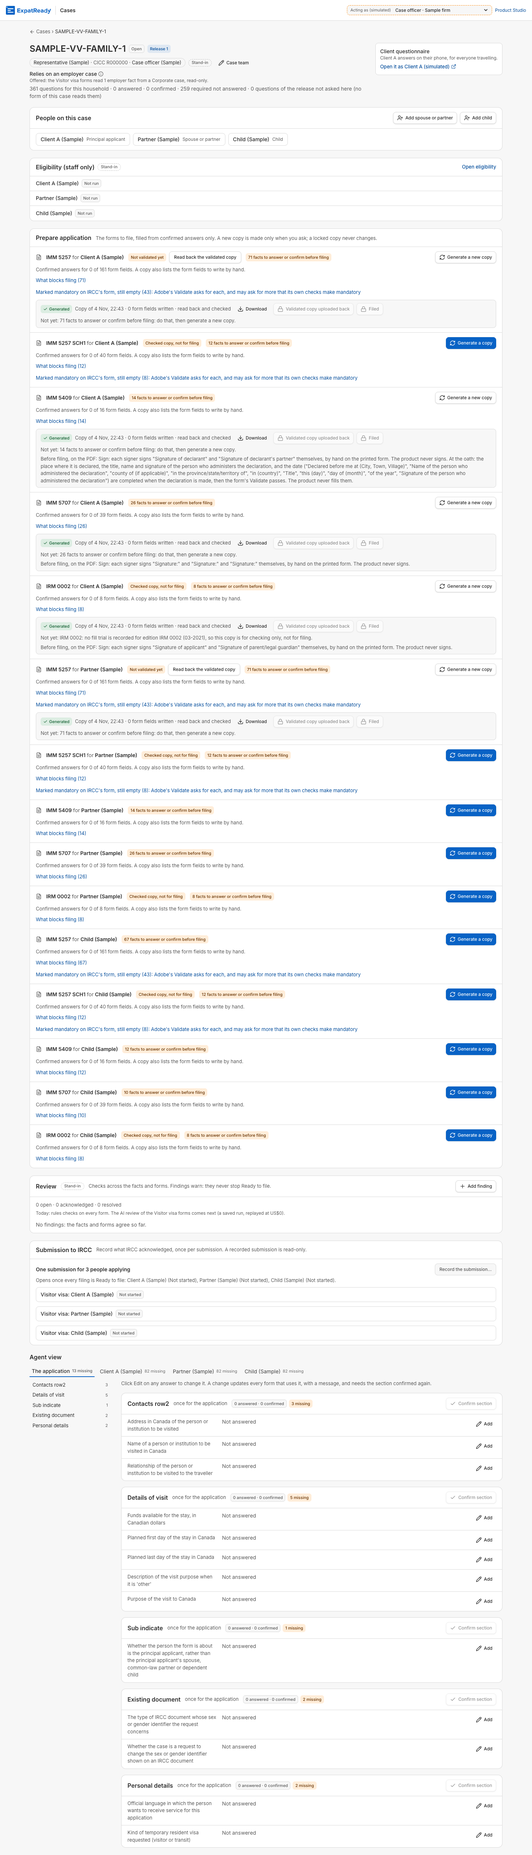
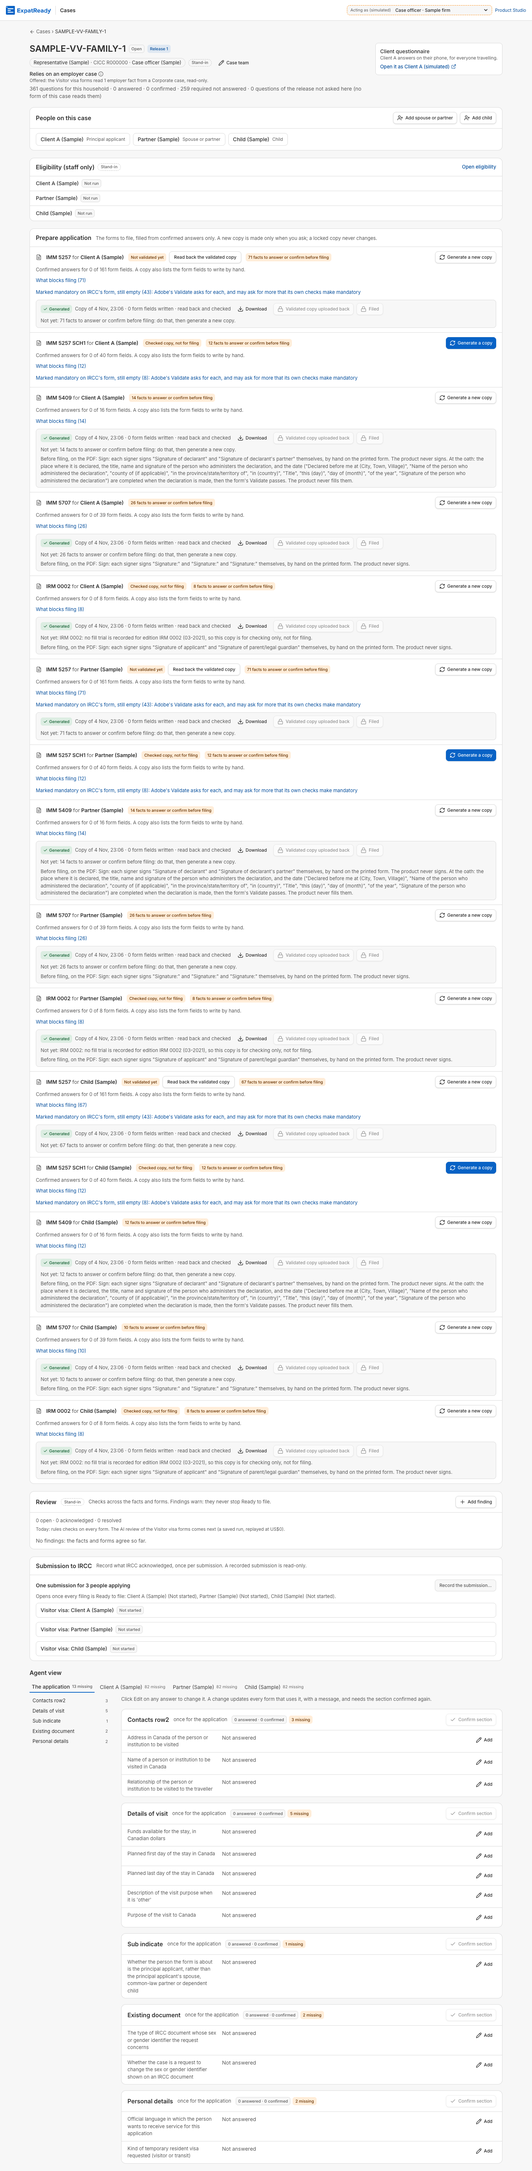
runtime: QA-231 review round 1 — the Sample case's copies one at a time (M1); checks and online boxes place no question (m1); a form rule named by its condition (m2); a removed caption-less field in words (m3); a form-rule fail test that can fail (m4)

diff --git a/ai-workers/problem-1-pathway-setup-and-form-filling/prototype/studio/tests/check_c91_impact_ai.ts b/ai-workers/problem-1-pathway-setup-and-form-filling/prototype/studio/tests/check_c91_impact_ai.ts
@@ -54,19 +54,28 @@ for (const [sig, code] of [["SIGINT", 130], ["SIGTERM", 143]] as const) process.
   // is asked there (engine/snapshot.ts placements), so it is touched; a section neither chosen nor needed is not.
   const r2 = rowsOf({
     boxes: [{ canonicalFieldKey: "rep.name", edition: { id: "e1", govFormDefId: "F", channel: "PDF", editionLabel: "IMM 5476 (11-2021)" } }],
-    lines: [v({ combinationId: "VV", lineageKey: "IMM 5476", govFormDefId: "F", predicateJson: { op: "exists", field: "case.rep_action", subjectKind: "CASE" } })] as never,
-    questions: [v({ lineageKey: "q1", sectionKey: "personal", canonicalFieldKey: "rep.name", predicateJson: null }), v({ lineageKey: "q2", sectionKey: "appoint", canonicalFieldKey: "case.rep_action", predicateJson: null }), v({ lineageKey: "q3", sectionKey: "idle", canonicalFieldKey: "z.idle", predicateJson: cond("rep.name") })] as never,
+    lines: [v({ combinationId: "VV", lineageKey: "IMM 5476", govFormDefId: "F", predicateJson: { op: "exists", field: "case.rep_action", subjectKind: "CASE" } }),
+      v({ combinationId: "SP", lineageKey: "IMM 1294", govFormDefId: "G", predicateJson: { op: "exists", field: "case.other", subjectKind: "CASE" } })] as never,
+    checks: [v({ combinationId: "VV", checkKey: "only_check", predicateJson: cond("z.checked") })] as never,
+    questions: [v({ lineageKey: "q1", sectionKey: "personal", canonicalFieldKey: "rep.name", predicateJson: null }), v({ lineageKey: "q2", sectionKey: "appoint", canonicalFieldKey: "case.rep_action", predicateJson: null }), v({ lineageKey: "q3", sectionKey: "idle", canonicalFieldKey: "z.idle", predicateJson: cond("rep.name") }), v({ lineageKey: "q4", sectionKey: "checked", canonicalFieldKey: "z.checked", predicateJson: null })] as never,
   });
   const u2 = fieldComponents(r2, ["rep.name", "case.rep_action"], new Set(["VV"]));
   const has2 = (kind: string, key: string, field: string) => u2.some((u) => u.kind === kind && u.key === key && u.field === field && u.combinationId === "VV");
   ok("C9.1 P-32 pass (QA-231): a form's own rule that reads the field is a rule; a section not chosen but asked because a form or a form rule needs its fact is touched", has2("rule", formRuleKey("IMM 5476"), "case.rep_action") && has2("section", "personal", "rep.name") && has2("section", "appoint", "case.rep_action"), u2);
   ok("C9.1 P-32 fail (QA-231): a section neither chosen nor needed by a form (its question only reads the field in a condition) is not touched, and nothing on a combination that does not file the form", !u2.some((u) => u.key === "idle") && fieldComponents(r2, ["rep.name"], new Set(["SP"])).length === 0, u2.map((u) => u.key));
+  // Review m4: SP files another form whose own rule reads another field: no rule of SP is listed for these fields; m1: a
+  // fact only a check reads places no question, so its section is not touched.
+  const u3 = fieldComponents(r2, ["rep.name", "case.rep_action", "z.checked"], new Set(["VV", "SP"]));
+  ok("C9.1 P-32 fail (review m4, m1): a form rule that reads another field (SP's IMM 1294) is not listed, and a section whose fact only a check reads is not touched", !u3.some((u) => u.combinationId === "SP") && !u3.some((u) => u.kind === "section" && u.key === "checked") && u3.some((u) => u.kind === "rule" && u.key === formRuleKey("IMM 5476")), u3.map((u) => `${u.kind}:${u.key}:${u.combinationId}`));
   const rew = rows.find((x) => x.change === "reworded")!;
   const view = componentsView([{ ...uses.find((u) => u.kind === "rule")!, label: "Has a representative" }], [{ ...rew, field: "rep.name" }], new Map([["rep.name", "Representative's name"]]), new Map([["VV", "Visitor visa"]]), "11-2025");
   ok("C9.1 P-32 pass: each component says why in words (which box changed, its old and new caption, the field) and in which combination", view.rules.length === 1 && view.rules[0].combination === "Visitor visa" && view.rules[0].why.includes("reworded in 11-2025") && view.rules[0].why.includes("Representative's name") && view.rules[0].why.length > 10, view.rules[0]);
   const bare = { ...rew, field: "rep.name", caption: rew.dataPath };
   const w = componentsView([{ ...uses.find((u) => u.kind === "rule")!, label: "Has a representative" }], [bare], new Map([["rep.name", "Representative's name"]]), new Map([["VV", "Visitor visa"]]), "11-2025").rules[0]?.why ?? "";
   ok("C9.1 P-32 (QA-231): a reworded form field with no caption of its own is said so in words, never by its PDF path", w.includes("with no caption of its own") && !w.includes(rew.dataPath), w);
+  const gone = { ...rew, change: "removed" as const, field: "rep.name", caption: rew.dataPath };
+  const w2 = componentsView([{ ...uses.find((u) => u.kind === "rule")!, label: "Has a representative" }], [gone], new Map([["rep.name", "Representative's name"]]), new Map([["VV", "Visitor visa"]]), "11-2025").rules[0]?.why ?? "";
+  ok("C9.1 P-32 (review m3): a removed form field with no caption of its own is said so in words, never by its PDF path", w2.includes("The form field with no caption of its own (removed in 11-2025) fills") && !w2.includes(rew.dataPath), w2);
   ok("C9.1 P-32 fail: a use whose field no removed or reworded box fills is left out (nothing to explain)", componentsView([{ ...uses.find((u) => u.kind === "rule")!, label: "x" }], [{ ...rew, field: "other.field" }], new Map(), new Map(), "11-2025").rules.length === 0);
 
   // ── P-121: the part holds the changed boxes only and the guard admits it; a tampered part is refused ──

diff --git a/ai-workers/problem-1-pathway-setup-and-form-filling/prototype/studio/api/src/sample-case.ts b/ai-workers/problem-1-pathway-setup-and-form-filling/prototype/studio/api/src/sample-case.ts
@@ -2,7 +2,7 @@
 // through the case officer's own steps (Runtime.createCase, addPerson, CaseForms.generate), as a person opens one on
 // Cases. A new edition held later (row 17) then shows open cases staying on the release they started on. The people are
 // made up (Client A's family of expected/p5-case-c1.json, Sample); nobody answers anything, nothing is filed, no AI (US$0).
-import { RUNTIME_ACTORS } from "./core.ts";
+import { RUNTIME_ACTORS, type Db } from "./core.ts";
 import type { CaseForms } from "./fill-case.ts";
 import type { Runtime } from "./runtime.ts";
 
@@ -11,9 +11,13 @@ export const SAMPLE_CASE = { reference: "SAMPLE-VV-FAMILY-1", principal: "Client
 
 export type SampleCase = { caseId: string | null; release: number | null; people: number; copies: string[]; refused: string[] };
 
+/** How long one copy may take before the next is asked for (a fill takes about a second). */
+const COPY_WAIT_MS = 60_000;
+
 /** Opens the case, adds the family, and asks for a copy of every form the release files for each person (each copy is
- *  filled from the case's answers, none yet). Each refusal is kept in words; nothing is forced. */
-export async function openSampleFamilyCase(runtime: Runtime, forms: CaseForms, combinationId: string): Promise<SampleCase> {
+ *  filled from the case's answers, none yet), one at a time: a case holds at most 5 copies waiting or running (review M1),
+ *  so the next is asked for only when the last has finished. Each refusal is kept in words; nothing is forced. */
+export async function openSampleFamilyCase(db: Db, runtime: Runtime, forms: CaseForms, combinationId: string): Promise<SampleCase> {
   const officer = RUNTIME_ACTORS.find((a) => a.id === "user-O")!;
   const out: SampleCase = { caseId: null, release: null, people: 0, copies: [], refused: [] };
   const said = (e: unknown) => String((e as { response?: { detail?: string; message?: string } }).response?.detail ?? (e as { response?: { message?: string } }).response?.message ?? (e as Error).message).slice(0, 200);
@@ -25,8 +29,14 @@ export async function openSampleFamilyCase(runtime: Runtime, forms: CaseForms, c
     try { await runtime.addPerson(officer, opened.id, { ...p, idempotencyKey: `sample-vv-family-1-${p.role}` }); out.people++; } catch (e) { out.refused.push(`${p.displayName}: ${said(e)}`); }
   }
   for (const f of (await forms.list(officer, opened.id)).forms.filter((x) => x.applies && x.for_filing)) {
-    try { await forms.generate(officer, opened.id, f.form, f.subject_id, { idempotencyKey: `sample-vv-family-1-${f.form}-${f.subject_id}`.replace(/[^A-Za-z0-9-]/g, "-").slice(0, 80) }); out.copies.push(`${f.form} (${f.person})`); }
-    catch (e) { out.refused.push(`${f.form} for ${f.person}: ${said(e)}`); }
+    let copy: { id: string };
+    try { copy = await forms.generate(officer, opened.id, f.form, f.subject_id, { idempotencyKey: `sample-vv-family-1-${f.form}-${f.subject_id}`.replace(/[^A-Za-z0-9-]/g, "-").slice(0, 80) }); }
+    catch (e) { out.refused.push(`${f.form} for ${f.person}: ${said(e)}`); continue; }
+    const until = Date.now() + COPY_WAIT_MS;
+    let status = "QUEUED";
+    while (Date.now() < until && (status === "QUEUED" || status === "RUNNING")) { await new Promise((r) => setTimeout(r, 150)); status = (await db.formInstance.findUnique({ where: { id: copy.id }, select: { status: true } }))?.status ?? "FAILED"; }
+    if (status === "GENERATED") out.copies.push(`${f.form} (${f.person})`);
+    else out.refused.push(`${f.form} for ${f.person}: the copy ${status === "FAILED" ? "failed" : "did not finish within a minute"}.`);
   }
   return out;
 }

diff --git a/ai-workers/problem-1-pathway-setup-and-form-filling/prototype/studio/api/src/where-used.ts b/ai-workers/problem-1-pathway-setup-and-form-filling/prototype/studio/api/src/where-used.ts
@@ -4,7 +4,8 @@
 // impact preview. Other screens still read some uses themselves (lists of rules and checks, the reuse marks); they move
 // here when they change. New features call it and never copy it (P-258).
 import type { Prisma } from "@prisma/client";
-import { byItem, current, fieldComponents, fieldUses, filingCombinations, formLineByCombination, formRuleKey, releaseUses } from "../../engine/where-used.ts";
+import { conditionWords } from "../../engine/eligibility-gates.ts";
+import { byItem, current, fieldComponents, fieldsOf, fieldUses, filingCombinations, formLineByCombination, formRuleKey, releaseUses } from "../../engine/where-used.ts";
 import type { Db } from "./core.ts";
 import { fullTrail, trailWords } from "../../engine/structure.ts";
 
@@ -114,8 +115,11 @@ export async function fieldComponentsOf(db: Client, workspaceId: string, fields:
   const rows = await fieldUseRows(db, workspaceId);
   const uses = fieldComponents(rows, fields, new Set(combinationIds));
   const keys = (k: string) => [...new Set(uses.filter((u) => u.kind === k).map((u) => u.key))];
-  const [sections, types] = await Promise.all([
+  // A form's own rule is named by its condition in words, each shared field by its label (review m2).
+  const lines = current(rows.lines, (l) => `${l.combinationId}|${l.lineageKey}`).filter((l) => uses.some((u) => u.kind === "rule" && u.key === formRuleKey(l.lineageKey) && u.combinationId === l.combinationId));
+  const [sections, ruleFields, types] = await Promise.all([
     db.logicalSection.findMany({ where: { workspaceId, sectionKey: { in: keys("section") } }, orderBy: { version: "desc" }, distinct: ["sectionKey"], select: { sectionKey: true, title: true } }),
+    db.canonicalField.findMany({ where: { workspaceId, canonicalFieldKey: { in: [...new Set(lines.flatMap((l) => fieldsOf(l.predicateJson)))] } }, orderBy: { version: "desc" }, distinct: ["canonicalFieldKey"], select: { canonicalFieldKey: true, label: true } }),
     db.documentType.findMany({ where: { workspaceId, documentTypeKey: { in: keys("document_type") } }, orderBy: { version: "desc" }, distinct: ["documentTypeKey"], select: { documentTypeKey: true, name: true } }),
   ]);
   const names = new Map<string, string>([
@@ -123,7 +127,7 @@ export async function fieldComponentsOf(db: Client, workspaceId: string, fields:
     ...types.map((t) => [`document_type|${t.documentTypeKey}`, t.name] as [string, string]),
     ...current(rows.rules, (x) => `${x.combinationId}|${x.predicateKey}`).map((x) => [`rule|${x.predicateKey}|${x.combinationId}`, x.thenPlain] as [string, string]),
     ...current(rows.checks, (k) => `${k.combinationId}|${k.checkKey}`).map((k) => [`check|${k.checkKey}|${k.combinationId}`, k.message ?? k.checkKey] as [string, string]),
-    ...current(rows.lines, (l) => `${l.combinationId}|${l.lineageKey}`).map((l) => [`rule|${formRuleKey(l.lineageKey)}|${l.combinationId}`, `${l.lineageKey} is filed only when ${l.conditionPlain?.trim() || "its condition holds"}`] as [string, string]),
+    ...lines.map((l) => [`rule|${formRuleKey(l.lineageKey)}|${l.combinationId}`, `${l.lineageKey} is filed only when ${l.conditionPlain?.trim() || ruleFields.reduce((w, f) => w.split(f.canonicalFieldKey).join(f.label ?? f.canonicalFieldKey), conditionWords(l.predicateJson)) || "its condition holds"}`] as [string, string]),
   ]);
   return uses.map((u) => ({ ...u, label: names.get(`${u.kind}|${u.key}`) ?? names.get(`${u.kind}|${u.key}|${u.combinationId}`) ?? u.key }));
 }

diff --git a/ai-workers/problem-1-pathway-setup-and-form-filling/prototype/studio/tests/check_c10_1_configured.ts b/ai-workers/problem-1-pathway-setup-and-form-filling/prototype/studio/tests/check_c10_1_configured.ts
@@ -113,6 +113,12 @@ type Row = { row: string; title: string; status: string; shows: string; why: str
   const famRel = fam ? sql(`select string_agg(distinct r.version::text, ',') from form_instance i join config_release r on r.id = i.config_release_id where i.case_id = '${fam}'`) : "";
   ok("C10.1 row 11 (QA-231): a Sample family case (3 people, every name Sample) on the Visitor visa's release 1, with form copies on that release; partial, saying nobody has answered", n(`select count(*) from runtime_case`) === 1 && fam !== "" && n(`select count(*) from case_participant p join answer_subject s on s.id = p.subject_id where p.case_id = '${fam}' and p.role <> 'case' and s.label ~ 'Sample'`) === 3
     && n(`select count(*) from form_instance where case_id = '${fam}'`) > 0 && famRel === "1" && r("11").status === "partial" && /Nobody has answered yet/.test(r("11").why ?? "") && /SAMPLE-VV-FAMILY-1/.test(r("11").shows), { status: r("11").status, shows: r("11").shows, why: r("11").why?.slice(0, 200), famRel });
+  // Review M1: copies are asked for one at a time, so none is refused for "being generated" and every copy the row names
+  // is made on release 1 (the row's count is the database's).
+  const made = fam ? n(`select count(*) from form_instance where case_id = '${fam}' and status = 'GENERATED'`) : 0;
+  const named = Number(/: (\d+) form cop/.exec(r("11").shows)?.[1] ?? -1);
+  ok("C10.1 row 11 (review M1): the copies are made one at a time: each the row names is GENERATED, none waits or runs, at least one per person", made === named && made >= 3 && fam !== "" && n(`select count(*) from form_instance where case_id = '${fam}' and status in ('QUEUED', 'RUNNING', 'FAILED')`) === 0 && n(`select count(distinct subject_id) from form_instance where case_id = '${fam}'`) === 3, { made, named });
+  ok("C10.1 row 11 fail (review M1): no copy is refused for the case's limit of copies at once (\"being generated\")", !/being generated|did not finish|failed/.test(r("11").why ?? ""), r("11").why?.slice(0, 300));
   ok("C10.1 row 11 fail (QA-231): no answer is given for the Sample family by the loader (answers are the people's own, C10.1 part B)", fam !== "" && n(`select count(*) from client_canonical_answer a join case_participant p on p.subject_id = a.subject_id where p.case_id = '${fam}'`) === 0);
   ok("C10.1 (R-143): no live AI call, US$0, the spend ledger unchanged", ledger() === before && n(`select count(*) from drafting_job where mode = 'LIVE'`) === 0 && n(`select count(*) from ai_batch where mode = 'LIVE'`) === 0 && l.body.cost_usd === 0);
   ok("C10.1: the load reports its time step by step", ["form intake (read code, edition, checksum)", "form read (form fields)", "field-map review and apply", "review and release"].every((k) => typeof l.body.timings[k] === "number"), l.body.timings);

diff --git a/ai-workers/problem-1-pathway-setup-and-form-filling/prototype/studio/api/src/demo.ts b/ai-workers/problem-1-pathway-setup-and-form-filling/prototype/studio/api/src/demo.ts
@@ -692,10 +692,10 @@ export class Demo {
       why: visitor ? "Set on the Visitor visa's Forms tab for release 2." : "Waits for the Visitor visa's release 1: its channels change for release 2." });
     // Row 11 (QA-231, P-67): a Sample family case opens on the Visitor visa's release 1 through the case officer's own
     // steps, before row 17 holds the new edition, so the case is seen staying on its release (api/src/sample-case.ts).
-    const fam = visitor && vvId ? await timed("sample family case (row 11)", () => openSampleFamilyCase(this.runtime, this.caseForms, vvId)) : null;
+    const fam = visitor && vvId ? await timed("sample family case (row 11)", () => openSampleFamilyCase(this.db, this.runtime, this.caseForms, vvId)) : null;
     // Partial, never done: DEMO.md row 11 also wants each person answering once (the family of four, C10.1 part B).
     row({ row: "11", title: "A family case on release 1", status: !fam ? "waiting" : "partial",
-      shows: fam?.caseId ? `Case ${SAMPLE_CASE.reference} (Sample, ${fam.people} people) on release ${fam.release}: ${fam.copies.length} form cop${fam.copies.length === 1 ? "y" : "ies"} asked for (${fam.copies.join(", ")})` : "The case area is built (Demo › Open the case area)",
+      shows: fam?.caseId ? `Case ${SAMPLE_CASE.reference} (Sample, ${fam.people} people) on release ${fam.release}: ${fam.copies.length} form cop${fam.copies.length === 1 ? "y" : "ies"} made (${fam.copies.join(", ")})` : "The case area is built (Demo › Open the case area)",
       why: !fam ? "Waits for the Visitor visa's release 1 (a case runs on a release)." : [...fam.refused, "Nobody has answered yet: each person answers once on the case (C10.1 part B, a family of four)."].join(" · ") });
     row({ row: "12", title: "IMM 5257 filled as a PDF and read back equal", status: "waiting", shows: "The fill is built (C7.1)", why: "IMM 5257 has no saved field-map answer under today's 5-part drafting: it waits for the founder's paid run (Lead, 30 Oct)." });
     // Row 17 (QA-207): the current IMM 5476 arrives through the intake on no combination, as a person sends a new edition:

diff --git a/ai-workers/problem-1-pathway-setup-and-form-filling/prototype/studio/engine/where-used.ts b/ai-workers/problem-1-pathway-setup-and-form-filling/prototype/studio/engine/where-used.ts
@@ -103,10 +103,11 @@ export function fieldComponents(r: ComponentRows, fields: string[], combinations
   const add = (u: ComponentUse) => { if (combinations.has(u.combinationId)) out.set(`${u.kind}|${u.key}|${u.field}|${u.combinationId}`, out.get(`${u.kind}|${u.key}|${u.field}|${u.combinationId}`) ?? u); };
   const want = new Set(fields);
   const picksOf = new Map<string, string[]>(); for (const p of r.picks) picksOf.set(p.sectionKey, [...(picksOf.get(p.sectionKey) ?? []), p.combinationId]);
-  // QA-231: a combination asks a question when it chooses the question's section, or when its forms, form rules, rules,
-  // checklist lines or checks read the question's fact: the snapshot then asks it after the chosen sections
-  // (engine/snapshot.ts placements). Both count: the section is touched where the question is asked.
-  const read = new Set(fieldUses({ ...r, questions: [], picks: [] }).map(([f, c]) => `${f}|${c}`));
+  // QA-231: a combination asks a question when it chooses the question's section, or when its forms (a PDF edition's
+  // form fields), form rules, rules or checklist lines read the question's fact: the snapshot then asks it after the
+  // chosen sections (engine/snapshot.ts placements; a check never places a question, review m1). Both count: the
+  // section is touched where the question is asked.
+  const read = new Set(fieldUses({ ...r, boxes: r.boxes.filter((b) => b.edition.channel !== "ONLINE"), checks: [], questions: [], picks: [] }).map(([f, c]) => `${f}|${c}`));
   for (const q of current(r.questions, (q) => q.lineageKey)) {
     const reads = new Set([...(want.has(q.canonicalFieldKey) ? [q.canonicalFieldKey] : []), ...fieldsOf(q.predicateJson).filter((f) => want.has(f))]);
     const asking = new Set([...(picksOf.get(q.sectionKey) ?? []), ...[...combinations].filter((c) => read.has(`${q.canonicalFieldKey}|${c}`))]);

diff --git a/ai-workers/problem-1-pathway-setup-and-form-filling/prototype/studio/api/src/impact-ai.ts b/ai-workers/problem-1-pathway-setup-and-form-filling/prototype/studio/api/src/impact-ai.ts
@@ -56,7 +56,7 @@ export function componentsView(uses: Use[], rows: BoxRow[], fieldLabel: Map<stri
   const of = (kind: string) => uses.filter((u) => u.kind === kind).map((u) => {
     const boxes = changedBy(u.field);
     // QA-231: a form field with no caption of its own carries its PDF path as its caption (compareBoxes); the words say so instead.
-    const box = boxes.map((b) => b.change === "removed" ? `"${b.caption.slice(0, 80)}" (removed in ${edition})` : `"${(b.was ?? "").slice(0, 80)}" (reworded in ${edition} ${b.caption === b.dataPath ? "with no caption of its own" : `as "${b.caption.slice(0, 80)}"`})`).join(", ");
+    const box = boxes.map((b) => b.change === "removed" ? `${b.caption === b.dataPath ? "with no caption of its own" : `"${b.caption.slice(0, 80)}"`} (removed in ${edition})` : `"${(b.was ?? "").slice(0, 80)}" (reworded in ${edition} ${b.caption === b.dataPath ? "with no caption of its own" : `as "${b.caption.slice(0, 80)}"`})`).join(", ");
     return { key: u.key, label: u.label, field: u.field, combination: comboLabel.get(u.combinationId) ?? "A combination", combination_id: u.combinationId, boxes: boxes.map((b) => b.dataPath),
       why: `The form field ${box || "(none)"} fills ${fieldLabel.get(u.field) ?? u.field}, and ${HOW[u.how]}.`.slice(0, 600) };
   }).filter((x) => x.boxes.length).sort((a, b) => `${a.combination}|${a.label}`.localeCompare(`${b.combination}|${b.label}`));

diff --git a/ai-workers/problem-1-pathway-setup-and-form-filling/product/screens/QA-231-c91-checkpoint/review.md b/ai-workers/problem-1-pathway-setup-and-form-filling/product/screens/QA-231-c91-checkpoint/review.md
@@ -1,0 +1,81 @@
+# QA-231 (C9.1 on the configured checkpoint): review round 1
+
+PR #978 · branch `claude/runtime-qa231-c91` · head reviewed **f758c056c0aabc6407eac09c891ca317f85b914a** · reviewer did not build it.
+Runtime row, not a new screen: reviewed the diff (`git diff origin/main...HEAD`), the tests, and a running isolated copy (`b8_rev`, port 4473, stopped after). US$0: no live AI, no `STUDIO_*_LIVE` set, :4400 not used.
+
+## Verdict: Block (Changes requested: 1 Major, 4 Minor)
+
+## What I re-ran (fresh isolated copy)
+* C9.1 pack `acceptance/C9.1.test.ts`: **16/17**. The one red step is K1, "2 IMM 5476 problems left". It is red by design and the question about it is with the tech lead.
+* `tests/check_c10_1_configured.ts` **34/34**. `tests/qa/check_qa231_walk.cjs` **13/13** at 1440 px. I ran a copy of it with its screenshots sent to my scratchpad, so the builder's files were not touched.
+* Cross-check of the main rule against the release snapshots: for all 3 combinations, each of the 21 sections listed in Components touched is a real placement in that combination's released snapshot (`config_release.snapshot.placements`, same section and fact). **0 listed but not asked.** No placement of a touched field is missing from the list either (0 left out). None of the 21 sections is chosen. Before this PR the list was empty.
+* My own tests of the pure function (`fieldComponents`) on made-up cases: a check-only reader and an ONLINE-edition box on a PDF line are both listed. A retired newest line is not.
+
+## Findings
+
+**M1 (Major): the Sample family case asks for every copy at once and hits the per-case cap. Row 11 then lists 10 refusals in its words.**
+* Where: `api/src/sample-case.ts:85-87`, against `api/src/fill-case.ts:46` (`ACTIVE_PER_CASE = 5`, the limit on copies waiting or running for one case).
+* What happened: `generate` puts each copy in a background queue and returns at once. The loop sends the 6th request while the first 5 are still waiting or running. On two loads I saw only 5 of the 15 (form, person) copies made: all of Client A's, plus the Partner's IMM 5257. Seven were refused with "5 copies of this case are being generated; wait for them, then ask again". The 3 IMM 5257 SCH1 copies were refused with "No such form." (see O1).
+* Failure scenario: the founder opens Demo and reads row 11. Its "why" says "IMM 5409 for Partner (Sample): 5 copies of this case are being generated; wait for them, then ask again" seven times, about a request no person made. The code comment says it asks for "a copy of every form the release files for each person", which is not what happens. How many copies get made depends on how fast the background fill runs, so the row's words can change from one load to the next.
+* The test does not catch it: `tests/check_c10_1_configured.ts:185` only checks that `count(form_instance) > 0`.
+* Fix:
+  * Make the copies one at a time: after each `generate`, wait until that copy leaves QUEUED/RUNNING. Or ask only for what P-67 needs, for example one copy per person or only the principal's, and say that in the row.
+  * Leave out the forms the copy route cannot take (SCH1) instead of listing them as refusals.
+  * Pin the expected copy count in the test and add a fail case: no "being generated" refusal appears in row 11's words.
+
+**m1 (Minor): the "asked" set is wider than the snapshot's.**
+* Where: `engine/where-used.ts:109`. It builds the set of facts the combination needs from `fieldUses`, which includes check conditions and ONLINE-edition boxes on any filing line. The snapshot only places questions from form maps (ONLINE editions only on an ONLINE line with a matching portal) and from the conditions of forms, document lines, rules and questions. It does not use checks (`engine/snapshot.ts:180-186`). The snapshot also adds facts this set does not: derived inputs and the date of birth when a form has a minimum age.
+* Scenario: a section that no combination chooses, holding a question whose own fact only a check reads, and whose condition reads a changed field. That section is listed as touched, but no case is ever asked that question. My probe confirmed this.
+* Effect today: none in the checkpoint (21/21 match). The changed field is always read by the form's own box, which keeps the case of the question's own fact correct.
+* Fix: one shared "facts a combination asks" function for both, or drop checks and the ONLINE-on-PDF boxes here. Add a fail test for the check-only case.
+
+**m2 (Minor): the form rule says nothing about its condition.** `api/src/where-used.ts:125` falls back to "IMM 5476 is filed only when its condition holds", because `condition_plain` is null on all three IMM 5476 lines. The author cannot see what the rule is. Fix: say it from the condition itself. Here the condition is "exists" on the Representative Form Action field, so the label could name that field.
+
+**m3 (Minor): a removed form field with no caption still shows its PDF path.** `api/src/impact-ai.ts:49` only handles the reworded case. A removed field with no caption is quoted by its path (the comparison stores the path as the caption at `impact-ai.ts:41`). If the old caption was empty, a reworded field prints `""` as its old caption. Not seen in this checkpoint. Fix: use the same "no caption of its own" wording in both places.
+
+**m4 (Minor): the form-rule fail test cannot fail.** `tests/check_c91_impact_ai.ts:218` calls `fieldComponents(r2, ["rep.name"], {SP})`. SP files nothing and chooses nothing in `r2`, so the result is empty whatever the rule does. There is no fail case for the form rule itself. Add one of these:
+* a line whose condition reads another field;
+* the same line on a combination outside the set;
+* a retired newest line.
+
+Pass and fail cases per new rule:
+* Section asked through a form: pass `:217`, fail `:218` (the "idle" section). Removing the new rule makes `:217` fail.
+* Form rule: pass `:217`; the fail case is weak (m4).
+* Field with no caption: pass `:224`. There is no assert that a captioned rewording still says `as "…"`.
+* K1 example: covered by pack step 89 (fail side).
+* Sample case: pass and fail at `check_c10_1_configured.ts:185-187`, but too loose (M1).
+
+## The questions asked
+* **Over-report and snapshot difference:** see the cross-check above and m1. Nothing that matters today.
+* **Form rule on a combination that does not file the form:** the set of combinations comes from `formCombinations` (newest line, not retired), and `current()` drops retired lines. A rule from another form on a filing combination is listed. That is correct: it is that combination's own rule.
+* **Injecting Runtime and CaseForms into Demo:** no cycle. Runtime needs Db, Workspace, Audit and Programs; CaseForms needs Db, Runtime and Audit; neither imports `demo.ts`. All are providers of the one module (`main.ts:211`).
+* **Idempotency and reset:**
+  * The keys are stored on the case, its people and its copies, all scoped to the workspace.
+  * Loading again is refused with 409 and plain words, and 1 case remains.
+  * Reset deletes the case, which also deletes its copies and its people's answers.
+  * Risk: a copy job still in the background during a reset is caught, so the server does not stop (`fill-case.ts` drain).
+* **Faked results:** none. The case is opened through the officer's own service calls, labelled Sample, nobody answers (fail check `:187`), and row 11 says "partial". The demo loader setting up through the product's services is how the rest of the checkpoint is built too, and Cases has its own screen. Not a P-33 issue.
+
+## Outside this PR (for the tech lead, not a condition)
+* **O1:** `fill-case.ts:44` `formOf` refuses "IMM 5257 SCH1" ("No such form."). Yet `forms.list` gives it as applying and for filing, and the case page shows "Generate a copy" for it (screenshot 3). I did not confirm the button's click end to end, so this needs its own row.
+* **O2:** Components touched lists one entry per (section, field, combination), so App details appears twice per combination. The list has 21 entries. Grouping by section is a design question, not this row's.
+
+## Screen-review items (runtime row: only what the diff touches)
+* **D2 4:** no duplicate cases on reload (409, 1 case).
+* **D4 4:** sections match the placements, 21/21.
+* **D5 4:** reset and reload are clean.
+* **D10 3:** M1's words and the m2 label.
+* **D11 4:** row 11 is "partial" and says why.
+* **D13 5:** axe finds 0 problems at 400, 1024 and 1440 px; keyboard reaches the tab and the underlined combination link.
+* **D15 3:** the impact page opens in 1.5–2.0 s.
+* **D16 3:** m4 and the M1 test.
+* **D18 4:** Sample labels and US$0.
+* **D17, D20:** simulated only.
+
+The other D dimensions are not touched by this diff. I did not run the graph or check a retrofit mapping: no new screen.
+
+Not checked: 200 % zoom, a real screen reader, an intended user walking it unaided. The `02-ai-work/screenshots/c91/*.png` files were already modified in the worktree before my runs (22:45), and I did not touch them.
+
+Journey score (reviewer, the one score for this check): **7.5 / 10, below the pass mark of 8.** Details in `journey-test-reviewer-2026-11-04.md`.
+
+**Verdict: Block.** Fix M1, then re-request review. The m1–m4 fixes are small and should come in the same PR.

diff --git a/ai-workers/problem-1-pathway-setup-and-form-filling/product/screens/QA-231-c91-checkpoint/journey-test-reviewer-2026-11-04.md b/ai-workers/problem-1-pathway-setup-and-form-filling/product/screens/QA-231-c91-checkpoint/journey-test-reviewer-2026-11-04.md
@@ -1,0 +1,69 @@
+# QA-231 journey test: reviewer, 4 Nov 2026
+
+Head f758c056c · isolated copy `b8_rev` on :4473 (fresh database, stopped after) · US$0, no live AI · headless Playwright, Chrome.
+
+## Journeys
+1. **Main path.** The configuration author wants to know what the new IMM 5476 edition touches before accepting it.
+   Steps: To review › New edition › Components touched.
+   Expected: the sections and rules on each combination that files IMM 5476, said in words.
+2. **Alternate.** The case officer opens the Sample family case on the Visitor visa's release 1.
+   Expected: on Release 1, three Sample people, nobody has answered.
+3. **Recovery.**
+   * Load the checkpoint twice. Expected: refused with words, nothing doubled.
+   * Reset, then load again. Expected: one case, clean.
+4. **Wrong role.** The case officer, or the client, opens the impact by its address. Expected: refused.
+5. **Screen sizes and keyboard.** Expected: no sideways scroll and no axe problems at 400, 1024 and 1440 px; keyboard reaches the tab and the combination link.
+6. **Across the boundary.** Demo row 11 tells the founder what the case shows. Expected: true, plain words.
+
+## What held
+* **J1:**
+  * Components touched lists 21 sections and 3 rules ("IMM 5476 is filed only when …") on Outside Canada, Visitor visa and With an LMIA – inside Canada.
+  * Every listed section is a real placement in that combination's released snapshot (21/21).
+  * The why is in words, with no raw PDF path, and says "with no caption of its own" where a field has none.
+  * Screenshots: scratchpad `rev231/shots/2-components-touched-1440.png`, `comp-1024.png`, `comp-400.png`.
+* **J2:** SAMPLE-VV-FAMILY-1 is on Release 1 with Client A, Partner and Child (Sample), 0 answers (screenshot `3-sample-family-case-1440.png`).
+* **J3:**
+  * The second load is refused with 409 and "The Structure already has names in this workspace. Reset the demo first…", and there is still 1 case.
+  * Reset then load gives a clean copy again.
+* **J4:** the impact returns 403 for the case officer and for the client.
+* **J5:**
+  * axe finds 0 problems at 400, 1024 and 1440 px, with no sideways scroll at any width.
+  * Tab reaches "Components touched" and Enter selects it.
+  * Tab reaches the underlined combination link.
+  * No page errors and no priced request.
+* **Data underneath:**
+  * 1 case and 3 Sample people, with no answers.
+  * The copies are on release 1, and the C9.1 P-67 step is green.
+
+## Findings
+* **Major (J6, correct data and plain words).** Row 11 shows only 5 of the 15 copies.
+  * Its "why" lists 7 refusals saying "5 copies of this case are being generated; wait for them, then ask again", and 3 saying "IMM 5257 SCH1: No such form."
+  * Cause: `api/src/sample-case.ts:85-87` asks for every copy at once, against the cap of 5 per case at `fill-case.ts:46`.
+  * The case page then shows the Partner and the Child with almost no copies (screenshot 3).
+  * See review M1.
+* **Minor (J1, plain words).** The rule label says "filed only when its condition holds", which gives no condition (`api/src/where-used.ts:125`; `condition_plain` is null).
+* **Minor (J1, visual quality).** 21 near-identical paragraphs; the same section appears twice per combination, one entry per field. The design of the grouping is a question for the tech lead, not a fix asked here.
+* **Minor (speed).** New edition: review impact takes 1.5 s to open at 1024 px and 2.0 s at 400 px. The first-view budget in STANDARDS §9 is under 1 s. Loading the checkpoint takes 43–53 s.
+
+## Score (each 0, ½ or 1)
+| Criterion | Score | Evidence |
+|---|---|---|
+| Task completed | 1 | J1 lists the asked sections and IMM 5476's own rule; J2 the case is on release 1 |
+| Next step obvious | ½ | Components touched gives no hint what to do with 21 entries; Accept is at the foot |
+| Plain words | ½ | Row 11's refusal list; "its condition holds"; "Section b" |
+| Feedback and state | 1 | Row 11 "partial" with its reason; the counts on the tabs |
+| Correct data | ½ | 21/21 sections match the placements, but 5 of 15 copies against the code's own stated intent |
+| Error recovery | 1 | Load again: 409 with words; reset is clean; idempotency keys |
+| Accessibility and screen sizes | 1 | axe 0 problems, no sideways scroll at 400, 1024 and 1440, keyboard path works |
+| Speed | ½ | 1.5–2.0 s to open, against the under-1-s budget |
+| Visual quality | ½ | Repeated wall of entries (O2) |
+| Trust and sources | 1 | Sample labels, US$0, the saved AI run marked Saved |
+
+**7.5 / 10: below the pass mark of 8 (no criterion at 0).**
+
+Fixes that would raise it, most valuable first:
+1. Make row 11's copies one at a time, or only those P-67 needs, with no refusal list. This raises correct data and plain words: 8.5.
+2. Say the form rule's condition in words.
+3. Group Components touched by section within each combination (a question for the tech lead).
+
+Not tested: a real screen reader, 200 % zoom, an intended user walking it unaided (D17 and D20 stay with the founder). Break-it was limited to reload, double load, wrong role and reset. Two tabs and hostile files are not on this row's paths.
